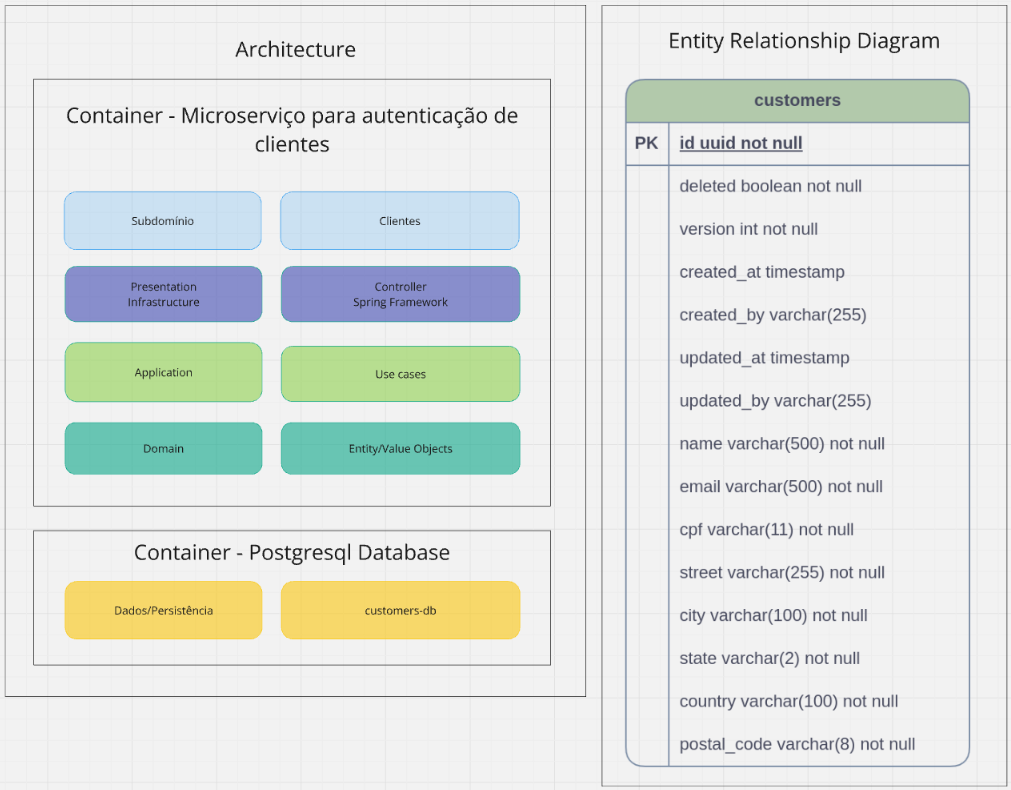
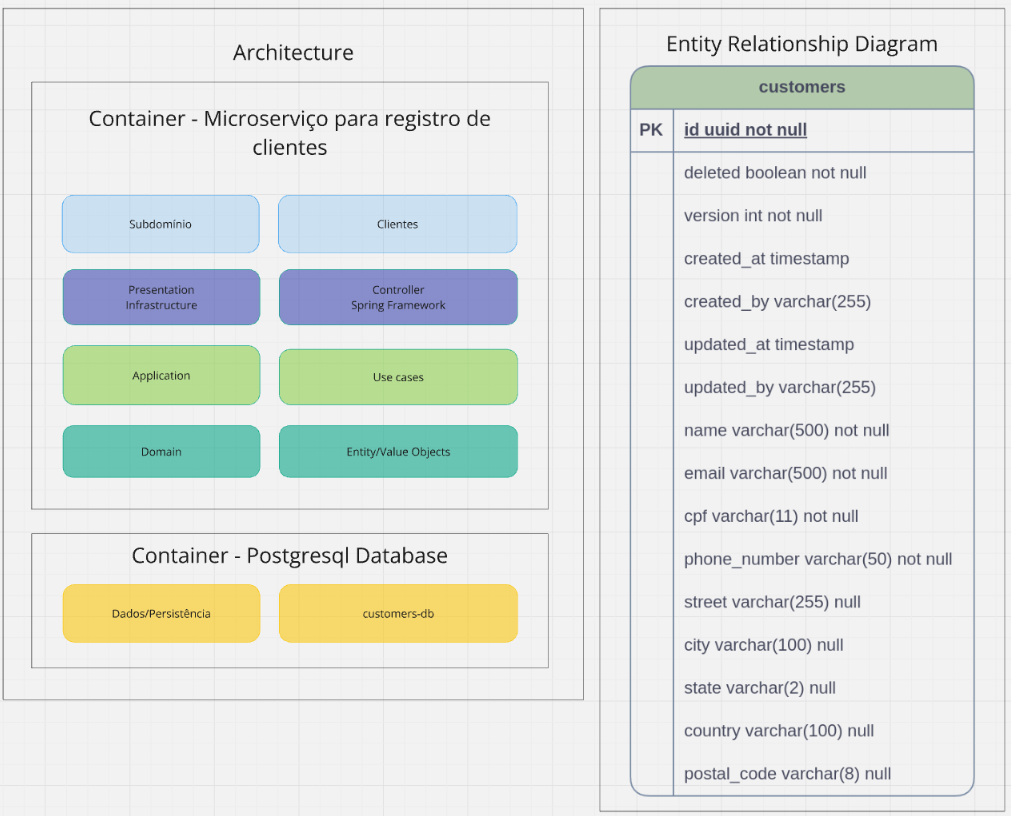
doc(project): updated customer documentation.

Changed region(s): [[0.0, 0.0, 1.0, 1.0], [0.0613, 0.1215, 0.5213, 0.6076]]

diff --git a/README.md b/README.md
@@ -143,6 +143,19 @@ O objetivo deste microsserviço é realizar o registro de um cliente.
             * Status 200 - Ok - cliente cadastrado com sucesso;
             * Status 401 - Unauthorized - se o usuário não foi autenticado;
             * Status 500 - para um erro de negócio.
+* http://localhost:8081/api/cliente/{cpf}
+    * Verbo GET - para realizar a pesquisa de um cliente por seu cpf. Será utilizado na validação do cliente no microserviço de registro de cartão de crédito.
+        * Escopo: privado, requer autenticação.
+        * Retorno:
+
+            ![alt text](./img/cliente_response_body.png)
+
+        * Regras de negócio:
+            * O parâmetro CPF é obrigatório e válido.
+        * Http response status do endpoint:
+            * Status 200 - Ok - cliente encontrado;
+            * Status 401 - Unauthorized - se o usuário não foi autenticado;
+            * Status 500 - para um erro de negócio.
 
     * Documentação da API: http://localhost:8081/swagger-ui/index.html
     * Banco de dados: http://localhost:5433/customers-db
@@ -153,7 +166,59 @@ O objetivo deste microsserviço é realizar o registro de um cliente.
 
 # Microsserviço de clientes - Resultado dos testes
 
-153 testes de integração e unidade, executados em 2 segudos, com 100% de classes e 92% de linhas de código cobertas.
+163 testes de integração e unidade, executados em 2 segudos, com 100% de classes e 92% de linhas de código cobertas.
+
+![alt text](./img/cliente_cobertura_testes.png)
+
+# Microsserviço de cartões de crédito - API
+O objetivo deste microsserviço é realizar o registro de cartões de crédito de um cliente. 
+* http://localhost:8082/api/cartao
+    * Verbo POST - para realizar o cadastro do cartão de crédito do cliente.
+        * Escopo: privado, requer autenticação.
+        * Contrato:
+
+            ![alt text](./img/cartaocredito_request_body.png)
+
+        * Retorno:
+
+            http status: 200 para cartão de crédito cadastrado com sucesso.
+
+        * Regras de negócio:
+            * Atributos cpf, limite, número do cartão, data de validade e cvv obrigatórios;
+            * Validação do número do cpf;
+            * O valor do limite deve ser maior que zero.
+            * O número do cartão deve ter 16 dígitos.
+            * O número do cartão deve ser único.
+            * É permitido apenas dois cartões por cpf.
+        * Http response status do endpoint:
+            * Status 200 - Ok - cliente cadastrado com sucesso;
+            * Status 401 - Unauthorized - se o usuário não foi autenticado;
+            * Status 403 - para o número máximo de cartão atingido por cliente;
+            * Status 500 - para um erro de negócio.
+* http://localhost:8082/api/cartao/{numero}/cliente/{cpf}
+    * Verbo GET - para realizar a pesquisa de um cartão pelo número e pelo cpf do cliente. Será utilizado na validação do cartão pertencente ao cliente e o limite disponível no microserviço de registro de pagamentos.
+        * Escopo: privado, requer autenticação.
+        * Retorno:
+
+            ![alt text](./img/cartaocredito_response_body.png)
+
+        * Regras de negócio:
+            * Os parâmetros número do cartão e cpf são obrigatórios.
+        * Http response status do endpoint:
+            * Status 200 - Ok - cartão de crédito encontrado;
+            * Status 401 - Unauthorized - se o usuário não foi autenticado;
+            * Status 500 - para um erro de negócio.
+
+    * Documentação da API: http://localhost:8082/swagger-ui/index.html
+    * Banco de dados: http://localhost:5434/creditcard-db
+
+# Microsserviço de cartões de crédito - Clean Architecture e Entity Diagram
+
+![alt text](./img/cartaocredito_arquitetura.png)
+
+# Microsserviço de cartões de crédito - Resultado dos testes
+
+163 testes de integração e unidade, executados em 2 segudos, com 100% de classes e 92% de linhas de código cobertas.
 
 ![alt text](./img/cliente_cobertura_testes.png)
 
